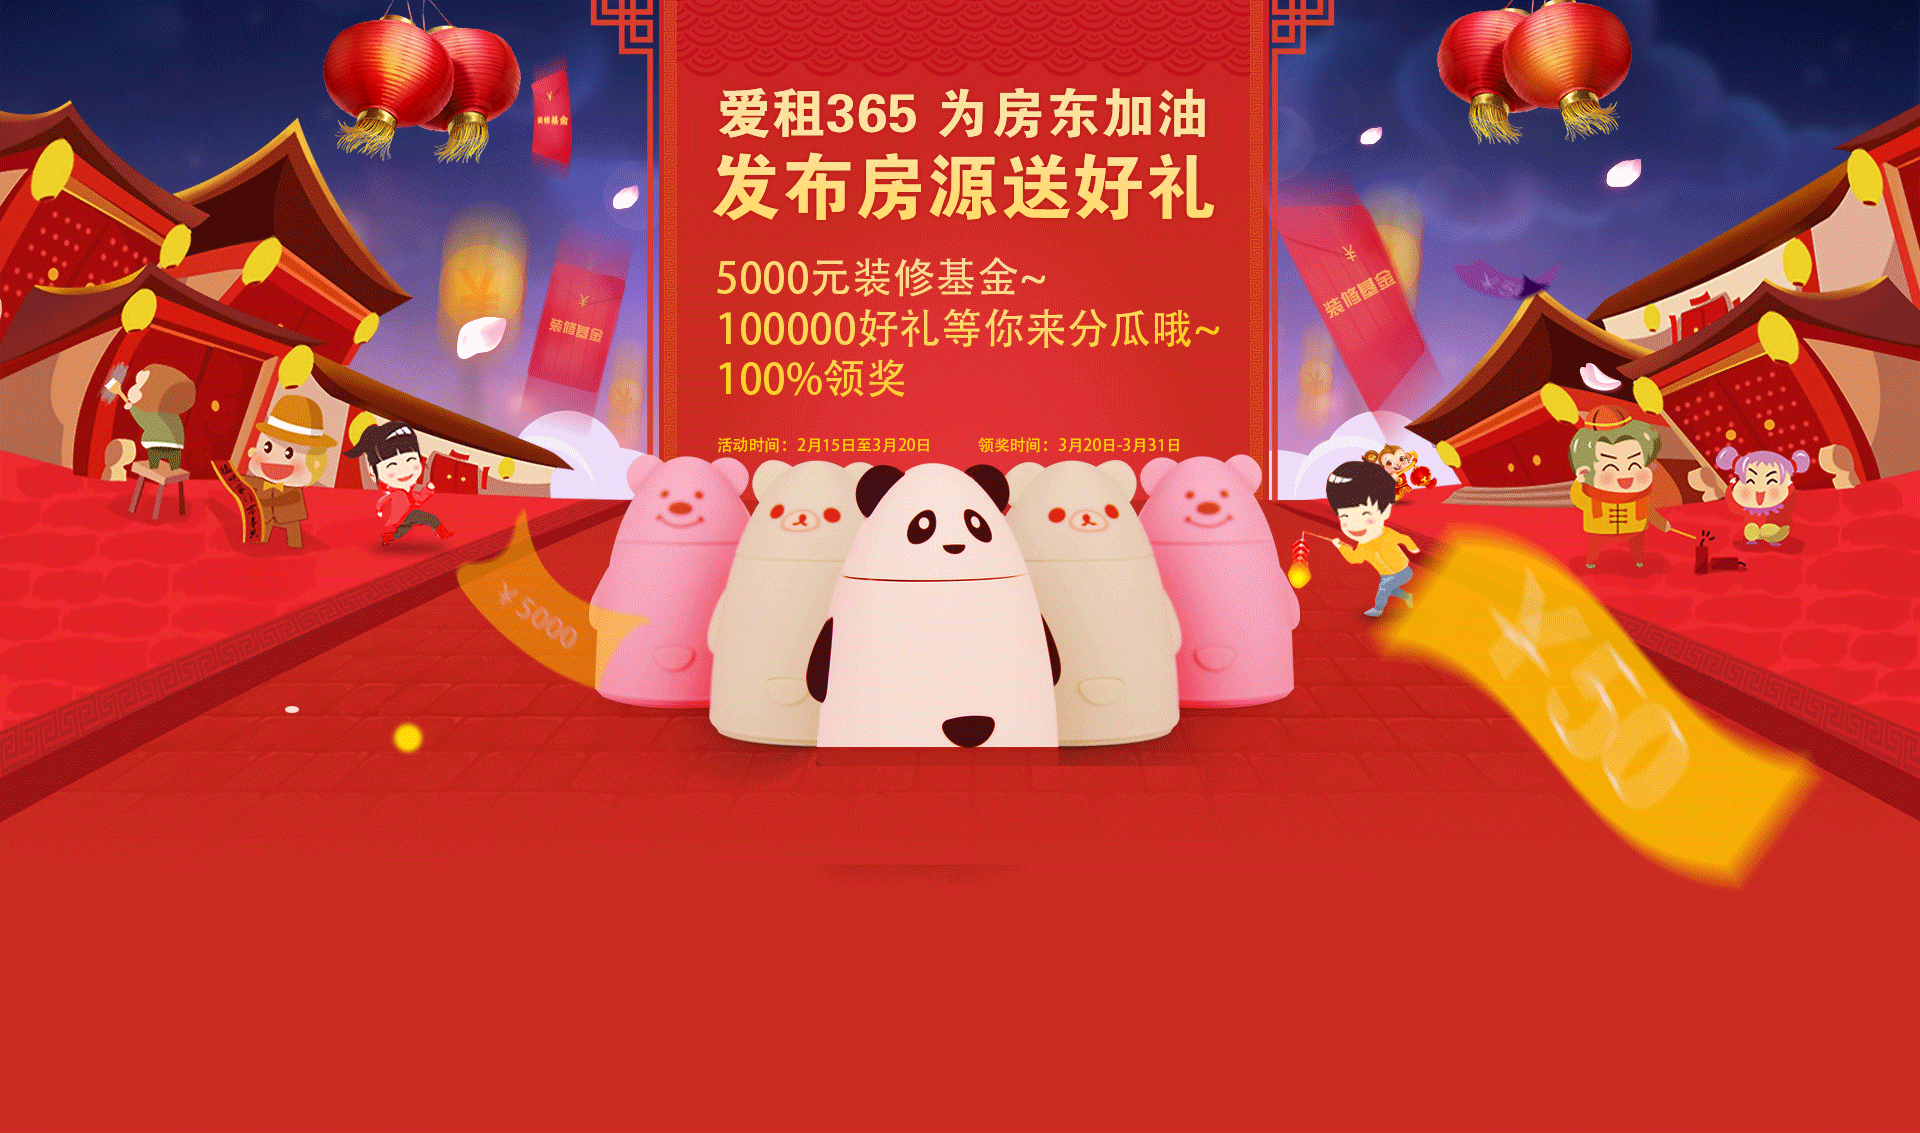
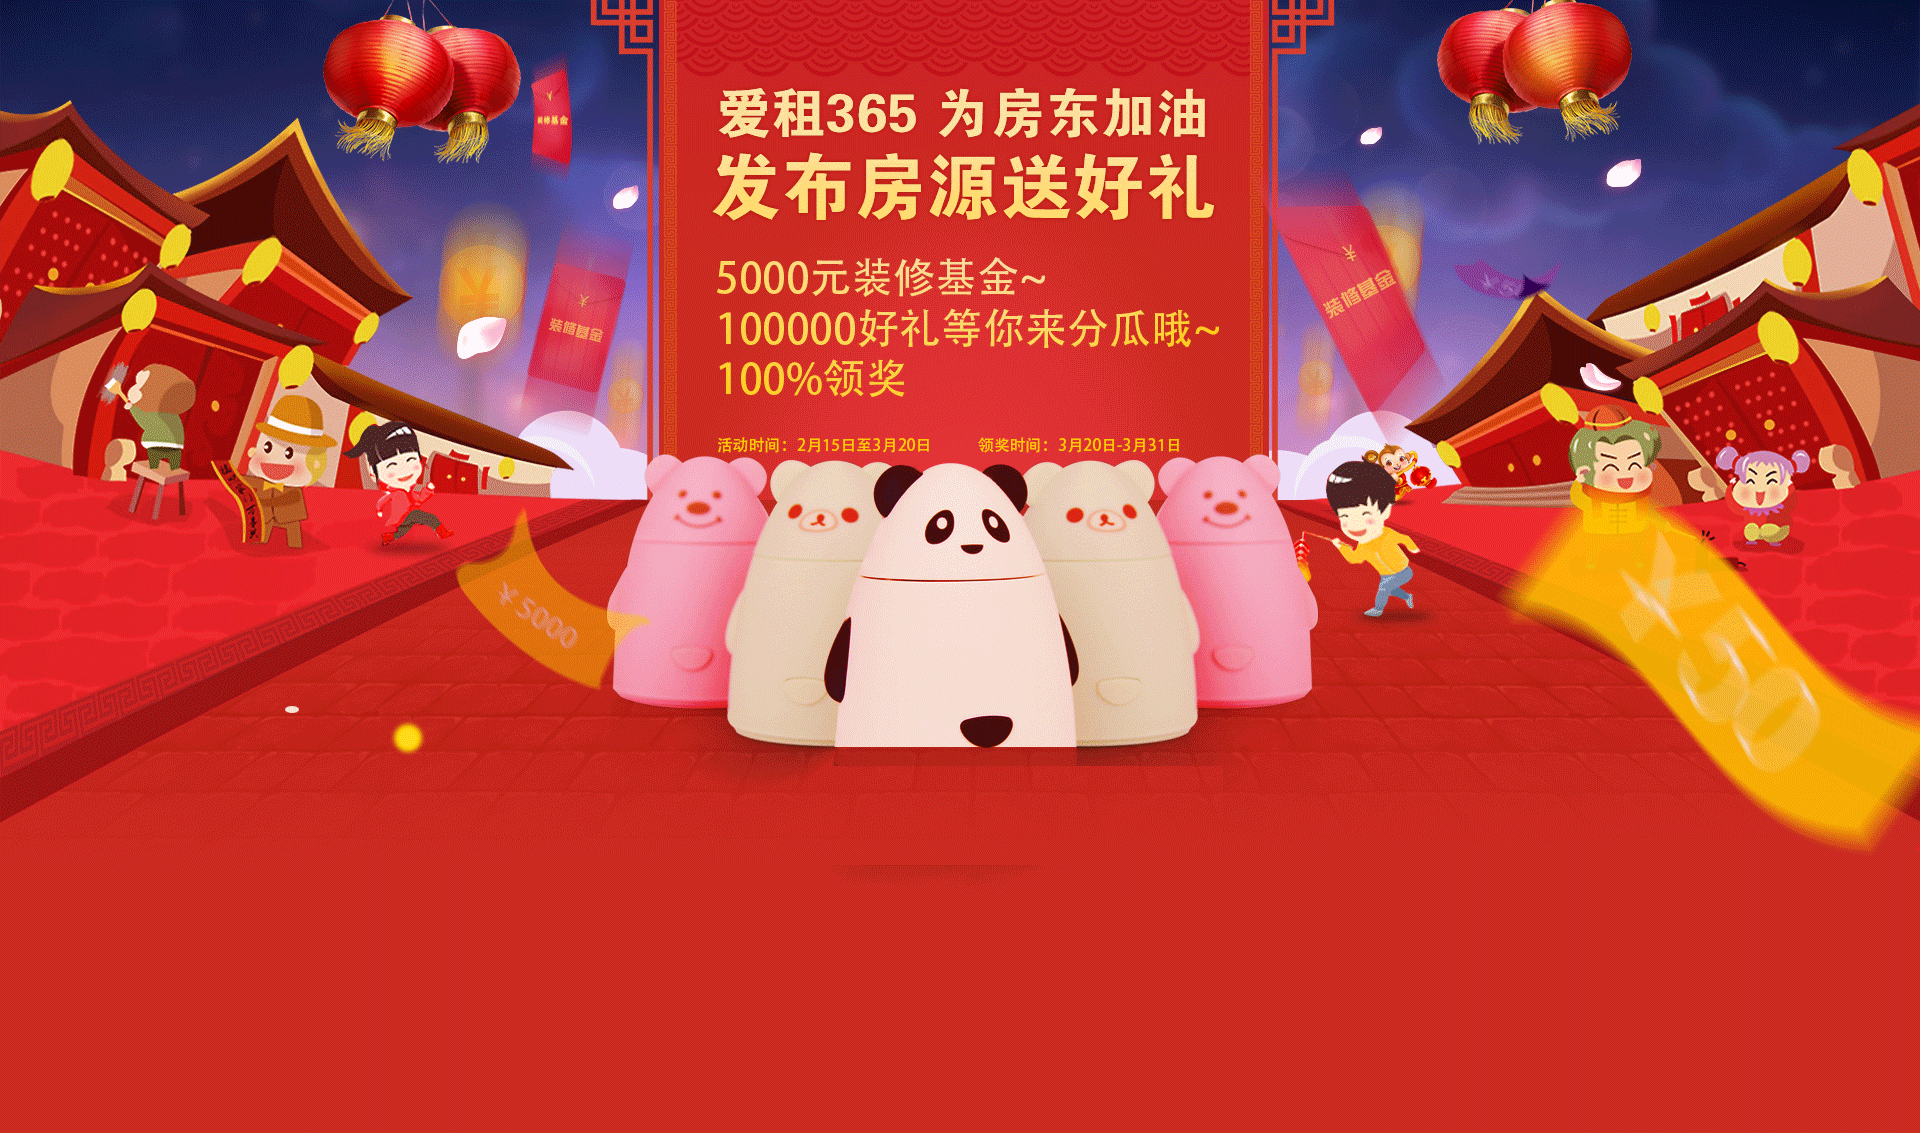
asdf

diff --git a/style/biggifts.css b/style/biggifts.css
@@ -1,10 +1,67 @@
 html,body {
 	font-family: "微软雅黑","Microsoft YaHei","Hiragino Sans GB W3",Tahoma,Arial;
+}
+
+body {
 	background: url('../images/background.png') no-repeat #ca2a20 ;
-	background-size: cover;
+	/*background-size: cover;*/
 	background-position: center top;
+	padding-bottom: 150px;
 }
 
 .template {
 	display: none;
+}
+
+.main-container {
+	width: 1130px;
+	margin: 0 auto;
+}
+
+.main-container .login {
+	color: white;
+	margin-top: 650px;
+	text-align: right;
+	font-size: 14px;
+}
+
+.main-container .main-item {
+	width: 1128px;
+	margin: 0 auto;
+}
+
+.main-container .main-item .header {
+	width: 1128px;
+	height: 144px;
+	background: url('../images/head.png') no-repeat;
+	font-size: 29px;
+	font-weight: bolder;
+	color: #fff100;
+	text-align: center;
+	line-height: 100px;
+}
+
+.main-container .main-item .item-container {
+	width: 1000px;
+	border: 6px solid #e36859;
+	margin: 0 auto;
+	padding: 43px 35px;
+	background-color: white;
+}
+
+.footer {
+	height: 120px;
+	width:100%;
+	background: url('../images/footer.png') repeat-x;
+}
+
+.footer .content {
+	width: 1006px;
+	margin: 0 auto;
+	color: white;
+	padding: 30px 0;
+}
+
+.footer .content img {
+	float: right;
 }

diff --git a/index.html b/index.html
@@ -13,7 +13,31 @@
 		<script src="./js/respond.min.js"></script>
 	<![endif]-->
 	<body>
-
+		<div class="main-container">
+			<div class="login">欢迎 137****3366！[退出]&nbsp;&nbsp;&nbsp;&nbsp;&nbsp;&nbsp;&nbsp;&nbsp;&nbsp;&nbsp;&nbsp;&nbsp;&nbsp;</div>
+			<div class="main-item">
+				<div class="header">123</div>
+				<div class="item-container">123</div>
+			</div>
+			<div class="main-item">
+				<div class="header">123</div>
+				<div class="item-container">123</div>
+			</div>
+			<div class="main-item">
+				<div class="header">123</div>
+				<div class="item-container">123</div>
+			</div>
+			<div class="main-item">
+				<div class="header">123</div>
+				<div class="item-container">123</div>
+			</div>
+		</div>
+		<div class="footer">
+			<div class="content">
+				<img src="./images/logo.png">
+				<div>首页 | 优质个人| 品质公寓 | 地图找房 | 爱租金融 | 关于我们 <br> 苏ICP备05011367号-72  <br>苏公网安备 32</div>
+			</div>
+		</div>
 
 
 		<!-- 模态框 -->
